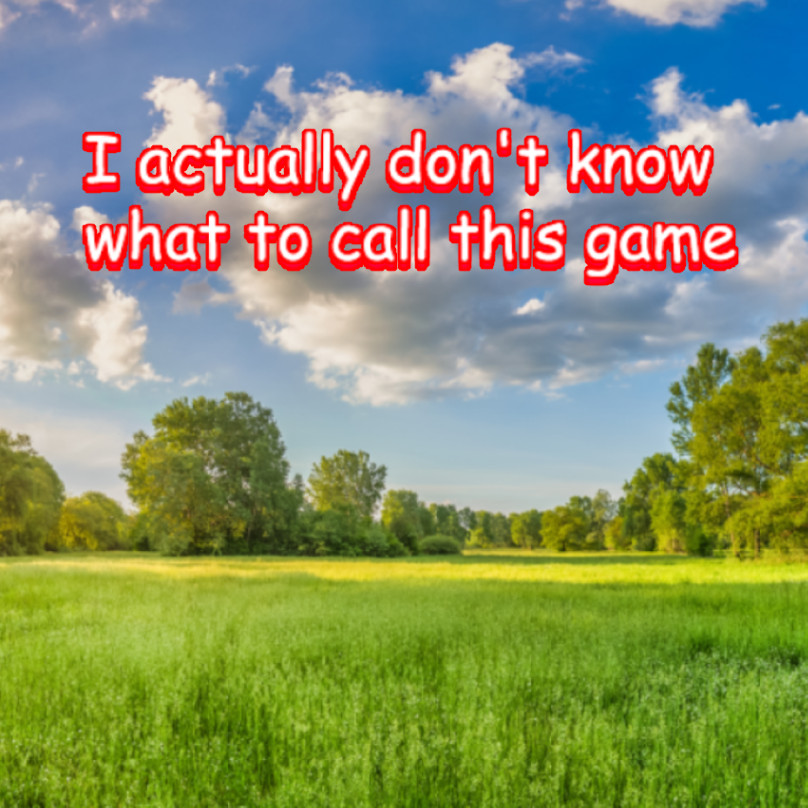
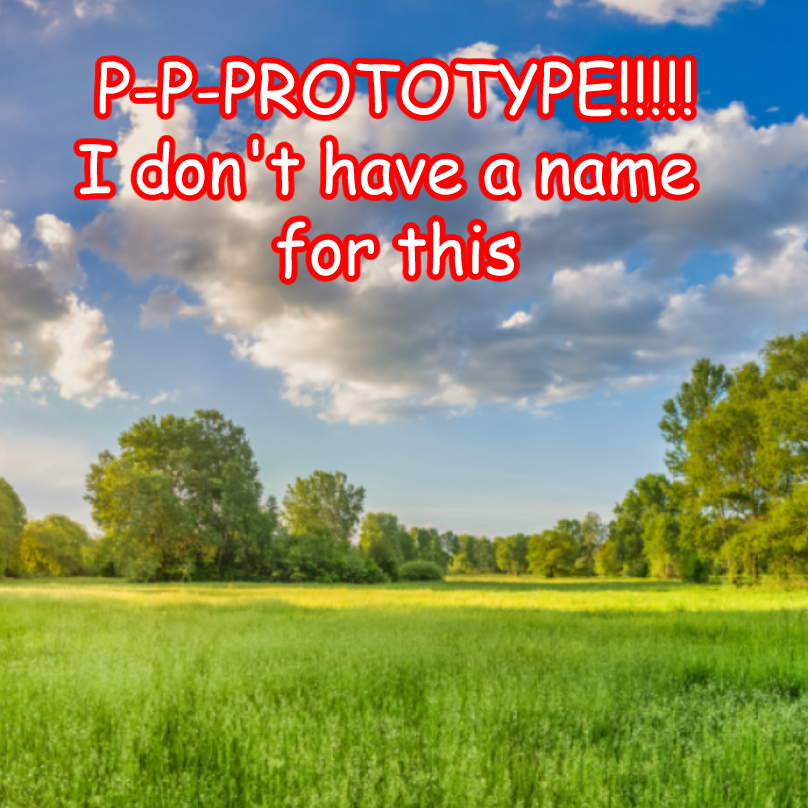
FINAL (PROTOTYPE): Changed the title screen

diff --git a/final/prototype/index.html b/final/prototype/index.html
@@ -5,7 +5,7 @@
   <meta charset="utf-8">
   <meta name="viewport" width=device-width, initial-scale=1.0, maximum-scale=1.0, user-scalable=0>
 
-  <title>I actually don't know what to call this game</title>
+  <title>Prototype Final</title>
 
   <!-- CSS stylesheet(s) -->
   <link rel="stylesheet" type="text/css" href="css/style.css" />

diff --git a/final/prototype/js/Boot.js b/final/prototype/js/Boot.js
@@ -88,7 +88,7 @@ class Boot extends Phaser.Scene {
 
 
         this.load.on("complete", () => {
-            this.scene.start("play");
+            this.scene.start("menu");
         })
     }
 
